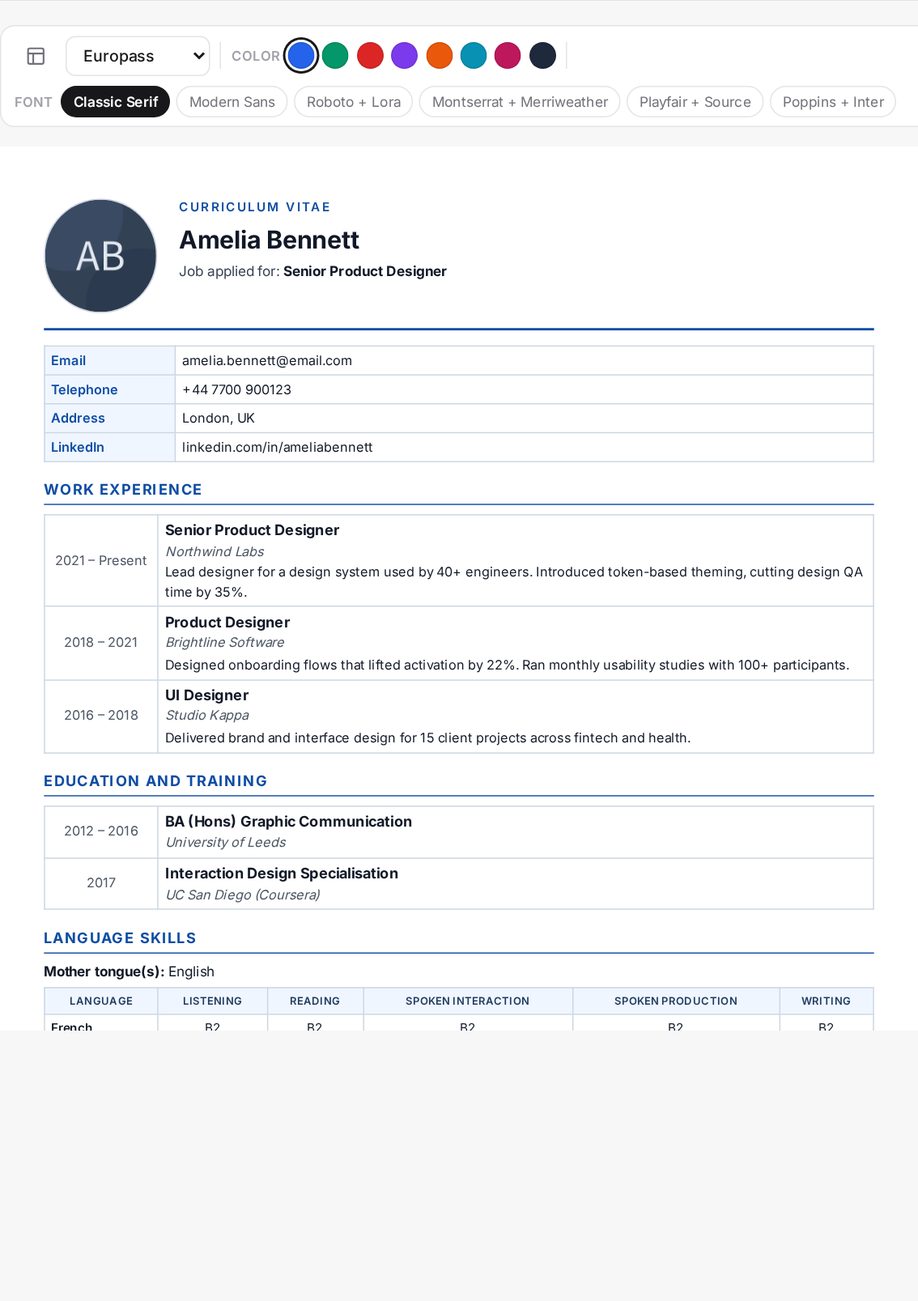
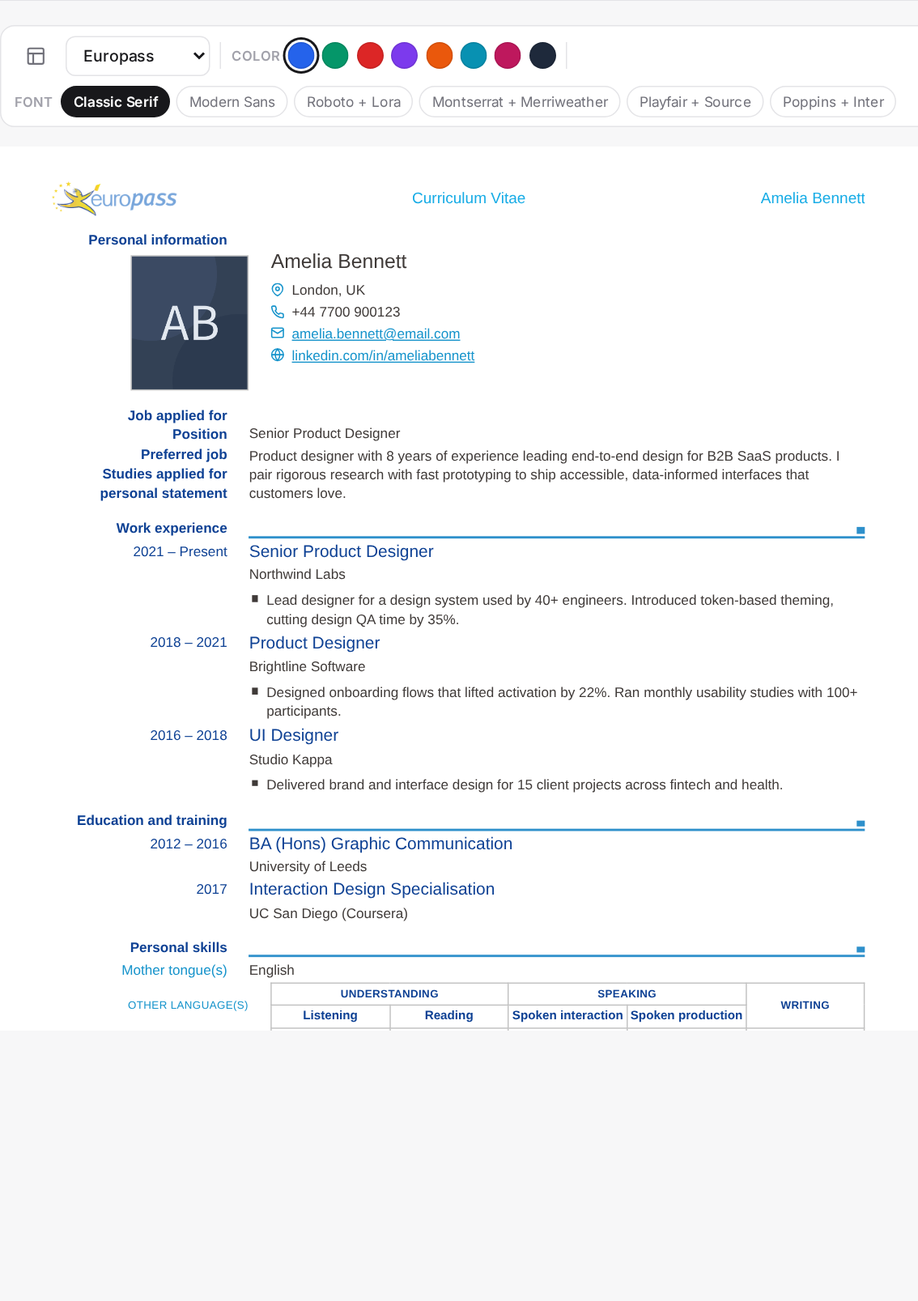
europass: rebuild template as a faithful reproduction of the official European Commission DOCX
- Fetched the official Europass CV templates (EEAS standard_cv.docx / Europass CV 0424)
  and extracted the real structure, styles and tokens from the OOXML
- Official styling: Arial, navy #0E4194 caps headings, #1593CB labels, #3F3A38 body,
  #2E90CB heading rules with end square, #C0C0C0 grid borders, right-aligned 50mm label gutter
- Official structure: Europass logo header (embedded optimized official logo),
  PERSONAL INFORMATION with photo in the gutter + contact pictograms,
  JOB APPLIED FOR/POSITION/PREFERRED JOB/STUDIES APPLIED FOR/personal statement stack,
  WORK EXPERIENCE and EDUCATION AND TRAINING entries with dates in the gutter and
  square-bulleted activities, PERSONAL SKILLS with mother tongue(s), the real CEFR
  self-assessment grid (UNDERSTANDING/SPEAKING/WRITING over 5 skill columns) with
  levels legend, and the (c) European Union footer
- Updated the gallery wireframe thumbnail and README docs; regenerated screenshot
- Verified against the official render (LibreOffice) + VLM checks; CI validator passes

diff --git a/index.html b/index.html
@@ -328,28 +328,57 @@ html.dark .cv-preview{box-shadow:0 1px 3px rgba(0,0,0,0.4),0 8px 32px rgba(0,0,0
 .cv-preview.cv-corporate .cv-section h2{background:#1a3a5c;color:#fff;padding:1mm 2mm;font-size:8.5pt;}
 /* ── Template: creative ─────────────────────────────────── */
 .cv-preview.cv-creative .cv-name{font-family:var(--cv-font-heading);font-size:22pt;font-weight:800;text-align:center;}
-/* ── Template: europass ─────────────────────────────────── */
-.cv-preview.cv-europass{font-family:'Inter','Segoe UI',sans-serif;font-size:9.5pt;color:#111827;padding:12mm 10mm;}
-.cv-europass .ep-head{display:flex;gap:5mm;align-items:flex-start;border-bottom:2.5px solid #0e4da4;padding-bottom:3.5mm;margin-bottom:3.5mm;}
-.cv-europass .ep-head-main{flex:1;min-width:0;}
-.cv-europass .ep-doc-title{font-size:8pt;font-weight:600;text-transform:uppercase;letter-spacing:0.14em;color:#0e4da4;margin-bottom:1mm;}
-.cv-europass .cv-name{font-size:16pt;font-weight:700;letter-spacing:-0.01em;margin-bottom:0.8mm;}
-.cv-europass .ep-job{font-size:9pt;color:#374151;}
-.cv-europass .ep-job strong{color:#111827;}
-.cv-europass .cv-photo{border:1px solid #cbd5e1;}
-.cv-europass .ep-grid{width:100%;border-collapse:collapse;margin-bottom:4mm;font-size:8.5pt;}
-.cv-europass .ep-grid td{padding:1mm 1.5mm;border:1px solid #cbd5e1;vertical-align:top;}
-.cv-europass .ep-grid td:first-child{width:30mm;background:#eff6ff;font-weight:600;color:#0e4da4;}
-.cv-europass .cv-section h2{font-family:'Inter',sans-serif;color:#0e4da4;border-bottom:1.5px solid #0e4da4;font-size:9.5pt;letter-spacing:0.08em;margin-bottom:2mm;}
-.cv-europass .ep-table{width:100%;border-collapse:collapse;font-size:8pt;margin-bottom:1mm;}
-.cv-europass .ep-table th{border:1px solid #cbd5e1;background:#eff6ff;color:#1e3a5f;padding:1.2mm;font-size:6.8pt;font-weight:600;text-transform:uppercase;letter-spacing:0.03em;}
-.cv-europass .ep-table td{border:1px solid #cbd5e1;padding:1.2mm 1.5mm;text-align:center;}
-.cv-europass .ep-table td.ep-lang{text-align:left;font-weight:600;}
-.cv-europass .ep-entry-title{font-weight:700;font-size:9.5pt;}
-.cv-europass .ep-entry-sub{color:#4b5563;font-size:8.5pt;font-style:italic;}
-.cv-europass .ep-entry-body{font-size:8.5pt;margin-top:0.5mm;}
-.cv-europass .ep-dates{white-space:nowrap;color:#4b5563;font-size:8.5pt;}
-.cv-europass .ep-mother{font-size:9pt;margin-bottom:1mm;}
+/* ── Template: europass (faithful reproduction of the official European Commission template) ── */
+.cv-preview.cv-europass{font-family:Arial,Helvetica,sans-serif;font-size:9pt;color:#3f3a38;padding:8mm 12mm 5mm;line-height:1.35;}
+/* page header: logo left · "Curriculum Vitae" centre · candidate name right (ECVHeaderFirstPage #17ACE6) */
+.cv-europass .ep-header{display:flex;align-items:center;gap:4mm;margin-bottom:3.2mm;}
+.cv-europass .ep-logo{height:8mm;width:auto;flex-shrink:0;display:block;}
+.cv-europass .ep-hdr-mid{flex:1;text-align:center;color:#17ace6;font-size:10pt;}
+.cv-europass .ep-hdr-name{color:#17ace6;font-size:10pt;flex-shrink:0;max-width:62mm;overflow:hidden;text-overflow:ellipsis;white-space:nowrap;}
+/* section headings: navy caps, right-aligned in the 50mm label gutter, blue rule with end square (ECVLeftHeading + ECVHeadingLine) */
+.cv-europass .ep-sec{display:flex;align-items:flex-end;margin-top:3.6mm;}
+.cv-europass .ep-sec-first{margin-top:0;}
+.cv-europass .ep-sec-label{width:45mm;text-align:right;padding-right:5mm;color:#0e4194;font-weight:700;font-size:9pt;line-height:1.4;flex-shrink:0;}
+.cv-europass .ep-sec-label .ep-nocaps{text-transform:none;}
+.cv-europass .ep-rule{flex:1;border-bottom:2px solid #2e90cb;position:relative;min-width:8mm;height:1em;}
+.cv-europass .ep-rule::after{content:'';position:absolute;right:0;bottom:2px;width:2mm;height:1.5mm;background:#2e90cb;}
+/* field rows: blue right-aligned label in the gutter (ECVHeadingContactDetails #1593CB) + content */
+.cv-europass .ep-row{display:flex;margin-top:0.7mm;}
+.cv-europass .ep-k{width:45mm;text-align:right;padding-right:5mm;color:#1593cb;flex-shrink:0;}
+.cv-europass .ep-k-navy{color:#0e4194;}
+.cv-europass .ep-v{flex:1;min-width:0;}
+/* entry typography (right column) */
+.cv-europass .ep-occ{color:#0e4194;font-size:11pt;line-height:1.3;}
+.cv-europass .ep-org{margin-top:0.4mm;}
+.cv-europass ul.ep-ul{margin:0.9mm 0 0;padding:0;list-style:none;}
+.cv-europass ul.ep-ul li{position:relative;padding-left:4mm;margin-bottom:0.5mm;}
+.cv-europass ul.ep-ul li::before{content:'';position:absolute;left:0.6mm;top:1mm;width:1.5mm;height:1.5mm;background:#3f3a38;}
+/* personal information: photo in the left gutter under the section label, name + contacts on the right */
+.cv-europass .ep-pi{display:flex;}
+.cv-europass .ep-gutter{width:50mm;flex-shrink:0;display:flex;flex-direction:column;align-items:flex-end;}
+.cv-europass .ep-photo{width:27mm;height:31mm;object-fit:cover;border:0.5pt solid #c0c0c0;margin:1.2mm 5mm 0 0;display:block;}
+.cv-europass .ep-pi-main{flex:1;min-width:0;}
+.cv-europass .ep-name{font-size:13pt;line-height:1.25;}
+.cv-europass .ep-contact{margin-top:1.4mm;display:flex;flex-direction:column;gap:0.7mm;}
+.cv-europass .ep-ct{display:flex;align-items:flex-start;gap:1.6mm;}
+.cv-europass .ep-ct svg{width:3.2mm;height:3.2mm;flex-shrink:0;margin-top:0.4mm;}
+.cv-europass .ep-ct a{color:#1593cb;}
+/* job applied for value block, vertically centred against the label stack as in the official */
+.cv-europass .ep-jaf{flex:1;min-width:0;display:flex;flex-direction:column;justify-content:center;min-height:11mm;}
+.cv-europass .ep-ps{margin-top:1mm;}
+/* CEFR self-assessment grid: borderless 50mm language column, bordered level columns, #ECECEC certificate rows */
+.cv-europass table.ep-lang{width:100%;border-collapse:collapse;font-size:8pt;table-layout:fixed;margin-top:0.7mm;}
+.cv-europass table.ep-lang th{border:0.5pt solid #c0c0c0;padding:0.7mm 0.5mm;color:#0e4194;font-weight:700;font-size:7pt;text-transform:uppercase;text-align:center;letter-spacing:0.03em;}
+.cv-europass table.ep-lang .ep-sub{font-size:8pt;text-transform:none;letter-spacing:0;}
+.cv-europass table.ep-lang td{border:0.5pt solid #c0c0c0;padding:0.8mm 0.5mm;text-align:center;font-weight:700;}
+.cv-europass table.ep-lang .ep-col0{border:none;width:50mm;text-align:right;padding-right:5mm;color:#1593cb;font-weight:400;}
+.cv-europass table.ep-lang td.ep-col0{color:#3f3a38;}
+.cv-europass table.ep-lang .ep-mt{border:none;font-weight:400;text-align:left;padding-left:1mm;}
+.cv-europass .ep-legend{font-size:7pt;color:#0e4194;margin-top:0.8mm;}
+.cv-europass .ep-legend a{color:#0e4194;text-decoration:underline;}
+/* official footer attribution */
+.cv-europass .ep-footer{margin-top:4.5mm;font-size:7.5pt;color:#1593cb;}
+.cv-europass .ep-footer a{color:#1593cb;}
 /* ── Template: nordic ───────────────────────────────────── */
 .cv-preview.cv-nordic{padding:16mm 14mm;}
 .cv-nordic .cv-head{display:flex;justify-content:space-between;align-items:flex-end;gap:6mm;border-bottom:1.5px solid var(--cv-color);padding-bottom:4mm;margin-bottom:6mm;}
@@ -878,7 +907,7 @@ const THUMB_WIRES={
   swiss:'<div class="r acc" style="height:4px;margin-bottom:4px"></div><div class="r dark" style="width:85%"></div><div class="r" style="width:40%;margin-bottom:4px"></div><div class="cols"><div class="c"><div class="r" style="width:60%"></div><div class="r"></div><div class="r"></div></div><div class="c"><div class="r"></div><div class="r"></div><div class="r"></div><div class="r"></div></div></div>',
   executive:'<div class="r dark" style="width:65%;margin:0 auto"></div><div class="r" style="width:45%;margin:0 auto 3px;border-bottom:2px solid #a8a29e"></div><div class="r"></div><div class="r"></div><div class="r"></div><div class="r"></div><div class="r"></div>',
   academic:'<div class="r dark" style="width:70%;margin:0 auto"></div><div class="r" style="width:50%;margin:0 auto 3px"></div><div class="r"></div><div class="r"></div><div class="r"></div><div class="r"></div><div class="r"></div><div class="r"></div>',
-  europass:'<div class="cols" style="flex-direction:row;align-items:flex-start"><div class="dot" style="width:12px;height:12px"></div><div class="c" style="flex:1"><div class="r acc" style="width:80%"></div><div class="r" style="width:60%"></div></div></div><div class="r acc" style="margin:3px 0"></div><div class="r"></div><div class="r"></div><div class="cols"><div class="c" style="flex:2"><div class="r"></div></div><div class="c" style="flex:3"><div class="r"></div><div class="r"></div></div></div>',
+  europass:'<div class="cols" style="align-items:center"><div class="r acc" style="width:14px;margin:0"></div><div class="r" style="flex:1;margin:0 0 2px"></div><div class="r acc" style="width:16px;margin:0"></div></div><div class="cols" style="align-items:flex-end"><div class="c" style="flex:2;align-items:flex-end"><div class="r dark" style="width:85%"></div></div><div class="c" style="flex:3"><div class="r acc" style="height:2px"></div></div></div><div class="cols"><div class="c" style="flex:2;align-items:flex-end"><div class="r" style="width:70%"></div></div><div class="c" style="flex:3"><div class="r"></div><div class="r" style="width:85%"></div></div></div><div class="cols" style="align-items:flex-end"><div class="c" style="flex:2;align-items:flex-end"><div class="r dark" style="width:85%"></div></div><div class="c" style="flex:3"><div class="r acc" style="height:2px"></div></div></div><div class="cols"><div class="c" style="flex:2;align-items:flex-end"><div class="r" style="width:65%"></div></div><div class="c" style="flex:3;display:grid;grid-template-columns:repeat(5,1fr);gap:2px"><div style="border:1px solid #c8c8cd;height:9px"></div><div style="border:1px solid #c8c8cd;height:9px"></div><div style="border:1px solid #c8c8cd;height:9px"></div><div style="border:1px solid #c8c8cd;height:9px"></div><div style="border:1px solid #c8c8cd;height:9px"></div></div></div>',
   compact:'<div class="cols" style="align-items:center"><div class="dot" style="width:11px;height:11px"></div><div class="c"><div class="r dark" style="width:80%"></div><div class="r" style="width:50%"></div></div></div><div class="r acc" style="margin:2px 0"></div><div class="r" style="height:2px"></div><div class="r" style="height:2px"></div><div class="r" style="height:2px"></div><div class="r" style="height:2px"></div><div class="r" style="height:2px"></div><div class="r" style="height:2px"></div><div class="r" style="height:2px"></div><div class="r" style="height:2px"></div><div class="r" style="height:2px"></div>',
   'sidebar-bold':'<div class="cols"><div class="c solid"></div><div class="c"><div class="r"></div><div class="r"></div><div class="r"></div><div class="r"></div></div></div>',
   timeline:'<div class="r dark" style="width:60%;margin:0 auto"></div><div class="r" style="width:40%;margin:0 auto 3px"></div><div class="cols"><div class="c" style="flex:0 0 6px;position:relative"><div style="position:absolute;left:2px;top:3px;bottom:3px;width:1px;background:#d4d4d8"></div></div><div class="c"><div class="r"></div><div class="r"></div><div class="r"></div><div class="r"></div><div class="r"></div><div class="r"></div></div></div>',
@@ -1075,16 +1104,38 @@ function _updatePreviewNow(){
         case'academic':html=`${ph?`<div style="text-align:center;margin-bottom:2mm">${ph}</div>`:''}<div class="cv-name">${esc(name)}</div><div class="cv-contact">${esc(title)}${cs?' · '+esc(cs):''}</div>${orderedContent}`;break;
         case'compact':html=`<div class="cv-head">${ph}<div style="min-width:0"><div class="cv-name">${esc(name)}</div>${title?`<div class="cv-title">${esc(title)}</div>`:''}</div>${contactLines?`<div class="cv-head-contact">${contactLines}</div>`:''}</div>${summary.trim()?`<div class="cv-section"><h2>Profile</h2><p>${esc(summary)}</p></div>`:''}<div class="cv-cols"><div class="cv-col-a">${exp.length?`<div class="cv-section"><h2>Experience</h2>${eH}</div>`:''}</div><div class="cv-col-b">${edu.length?`<div class="cv-section"><h2>Education</h2>${dH}</div>`:''}${skillList.length?`<div class="cv-section"><h2>Skills</h2><p style="font-size:8pt">${esc(skills)}</p></div>`:''}${langLines?`<div class="cv-section"><h2>Languages</h2>${langLines}</div>`:''}</div></div>`;break;
         case'europass':{
-            const nativeLangs=langs.filter(l=>(l.level||'').toLowerCase()==='native');
-            const otherLangs=langs.filter(l=>(l.level||'').toLowerCase()!=='native');
+            /* Faithful reproduction of the official Europass CV issued by the European
+               Commission (structure & styling extracted from the official DOCX template):
+               Arial · logo header · right-aligned labels in a 50mm gutter · navy #0E4194 caps
+               headings with #2E90CB rules · #1593CB field labels · CEFR self-assessment grid ·
+               "© European Union" footer. Section order follows the official document. */
             const epLvl=l=>{const v=(l.level||'').trim();return v?v.toUpperCase():'—';};
-            html=`<div class="ep-head">${ph}<div class="ep-head-main"><div class="ep-doc-title">Curriculum Vitae</div><div class="cv-name">${esc(name)}</div>${title?`<div class="ep-job">Job applied for: <strong>${esc(title)}</strong></div>`:''}</div></div>
-            ${email||phone||location||linkedin?`<table class="ep-grid"><tbody>${email?`<tr><td>Email</td><td>${esc(email)}</td></tr>`:''}${phone?`<tr><td>Telephone</td><td>${esc(phone)}</td></tr>`:''}${location?`<tr><td>Address</td><td>${esc(location)}</td></tr>`:''}${linkedin?`<tr><td>LinkedIn</td><td>${esc(linkedin)}</td></tr>`:''}</tbody></table>`:''}
-            ${exp.length?`<div class="cv-section"><h2>Work experience</h2><table class="ep-table">${exp.map(e=>`<tr><td class="ep-dates" style="width:26mm">${esc(e.dates)}</td><td style="text-align:left"><div class="ep-entry-title">${esc(e.title)}</div>${e.company?`<div class="ep-entry-sub">${esc(e.company)}</div>`:''}${e.description?`<div class="ep-entry-body">${esc(e.description)}</div>`:''}</td></tr>`).join('')}</table></div>`:''}
-            ${edu.length?`<div class="cv-section"><h2>Education and training</h2><table class="ep-table">${edu.map(e=>`<tr><td class="ep-dates" style="width:26mm">${esc(e.year)}</td><td style="text-align:left"><div class="ep-entry-title">${esc(e.degree)}</div>${e.institution?`<div class="ep-entry-sub">${esc(e.institution)}</div>`:''}</td></tr>`).join('')}</table></div>`:''}
-            ${langs.length?`<div class="cv-section"><h2>Language skills</h2>${nativeLangs.length?`<div class="ep-mother"><strong>Mother tongue(s):</strong> ${nativeLangs.map(l=>esc(l.language)).join(', ')}</div>`:''}${otherLangs.length?`<table class="ep-table"><tr><th>Language</th><th>Listening</th><th>Reading</th><th>Spoken interaction</th><th>Spoken production</th><th>Writing</th></tr>${otherLangs.map(l=>`<tr><td class="ep-lang">${esc(l.language)}</td><td>${epLvl(l)}</td><td>${epLvl(l)}</td><td>${epLvl(l)}</td><td>${epLvl(l)}</td><td>${epLvl(l)}</td></tr>`).join('')}</table>`:''}</div>`:''}
-            ${skills.trim()?`<div class="cv-section"><h2>Job-related skills and competences</h2><p>${esc(skills)}</p></div>`:''}
-            ${summary.trim()?`<div class="cv-section"><h2>Additional information</h2><p>${esc(summary)}</p></div>`:''}`;
+            const isNative=l=>['native','mother tongue','nativ'].includes((l.level||'').toLowerCase().trim());
+            const motherTongues=langs.filter(isNative),otherLangs=langs.filter(l=>!isNative(l));
+            const epIcon={
+                pin:'<svg viewBox="0 0 24 24" fill="none" stroke="#1593cb" stroke-width="2.2" stroke-linecap="round" stroke-linejoin="round"><path d="M21 10c0 7-9 12-9 12s-9-5-9-12a9 9 0 0 1 18 0z"/><circle cx="12" cy="10" r="3"/></svg>',
+                phone:'<svg viewBox="0 0 24 24" fill="none" stroke="#1593cb" stroke-width="2.2" stroke-linecap="round" stroke-linejoin="round"><path d="M22 16.92v3a2 2 0 0 1-2.18 2 19.79 19.79 0 0 1-8.63-3.07 19.5 19.5 0 0 1-6-6 19.79 19.79 0 0 1-3.07-8.67A2 2 0 0 1 4.11 2h3a2 2 0 0 1 2 1.72c.13.96.36 1.9.7 2.81a2 2 0 0 1-.45 2.11L8.09 9.91a16 16 0 0 0 6 6l1.27-1.27a2 2 0 0 1 2.11-.45c.91.34 1.85.57 2.81.7A2 2 0 0 1 22 16.92z"/></svg>',
+                mail:'<svg viewBox="0 0 24 24" fill="none" stroke="#1593cb" stroke-width="2.2" stroke-linecap="round" stroke-linejoin="round"><rect x="2" y="4" width="20" height="16" rx="2"/><path d="m22 7-10 6L2 7"/></svg>',
+                web:'<svg viewBox="0 0 24 24" fill="none" stroke="#1593cb" stroke-width="2.2" stroke-linecap="round" stroke-linejoin="round"><circle cx="12" cy="12" r="10"/><path d="M2 12h20"/><path d="M12 2a15.3 15.3 0 0 1 4 10 15.3 15.3 0 0 1-4 10 15.3 15.3 0 0 1-4-10 15.3 15.3 0 0 1 4-10z"/></svg>'};
+            const contacts=[location?{i:'pin',t:esc(location)}:null,phone?{i:'phone',t:esc(phone)}:null,email?{i:'mail',t:`<a href="mailto:${esc(email)}">${esc(email)}</a>`}:null,linkedin?{i:'web',t:`<a href="${esc(linkedin)}" target="_blank" rel="noopener">${esc(linkedin)}</a>`}:null].filter(Boolean);
+            const epSec=(label,rule)=>`<div class="ep-sec"><div class="ep-sec-label">${label}</div>${rule?'<div class="ep-rule"></div>':''}</div>`;
+            const expEntry=e=>{
+                const acts=(e.description||'').split('\n').map(s=>s.trim()).filter(Boolean);
+                return `<div class="ep-row"><div class="ep-k ep-k-navy">${esc(e.dates)}</div><div class="ep-v"><div class="ep-occ">${esc(e.title)}</div>${e.company?`<div class="ep-org">${esc(e.company)}</div>`:''}</div></div>
+                ${acts.length?`<div class="ep-row"><div class="ep-k"></div><div class="ep-v"><ul class="ep-ul">${acts.map(a=>`<li>${esc(a)}</li>`).join('')}</ul></div></div>`:''}`;
+            };
+            const eduEntry=e=>`<div class="ep-row"><div class="ep-k ep-k-navy">${esc(e.year)}</div><div class="ep-v"><div class="ep-occ">${esc(e.degree)}</div>${e.institution?`<div class="ep-org">${esc(e.institution)}</div>`:''}</div></div>`;
[1 lines of base64/hex data omitted]
+            <div class="ep-sec ep-sec-first"><div class="ep-sec-label">Personal information</div></div>
+            <div class="ep-pi"><div class="ep-gutter">${photoData?`<img class="ep-photo" src="${photoData}" alt="Profile photo">`:''}</div><div class="ep-pi-main"><div class="ep-name">${esc(name)}</div>${contacts.length?`<div class="ep-contact">${contacts.map(c=>`<div class="ep-ct">${epIcon[c.i]}<span>${c.t}</span></div>`).join('')}</div>`:''}</div></div>
+            ${title||summary.trim()?`<div class="ep-sec"><div class="ep-sec-label">Job applied for<br>Position<br>Preferred job<br>Studies applied for<br><span class="ep-nocaps">personal statement</span></div><div class="ep-jaf">${title?`<div>${esc(title)}</div>`:''}${summary.trim()?`<div class="ep-ps">${esc(summary)}</div>`:''}</div></div>`:''}
+            ${exp.length?epSec('Work experience',true)+exp.map(expEntry).join(''):''}
+            ${edu.length?epSec('Education and training',true)+edu.map(eduEntry).join(''):''}
+            ${langs.length||skills.trim()?epSec('Personal skills',true)+
+                (motherTongues.length?`<div class="ep-row"><div class="ep-k">Mother tongue(s)</div><div class="ep-v">${motherTongues.map(l=>esc(l.language)).join(', ')}</div></div>`:'')+
+                (otherLangs.length?`<table class="ep-lang"><tr><th class="ep-col0" rowspan="2">Other language(s)</th><th colspan="2">Understanding</th><th colspan="2">Speaking</th><th rowspan="2">Writing</th></tr><tr><th class="ep-sub">Listening</th><th class="ep-sub">Reading</th><th class="ep-sub">Spoken interaction</th><th class="ep-sub">Spoken production</th></tr>${otherLangs.map(l=>`<tr><td class="ep-col0">${esc(l.language)}</td><td>${epLvl(l)}</td><td>${epLvl(l)}</td><td>${epLvl(l)}</td><td>${epLvl(l)}</td><td>${epLvl(l)}</td></tr>`).join('')}</table><div class="ep-legend">Levels: A1/A2: Basic user - B1/B2: Independent user - C1/C2: Proficient user. <a href="https://europa.eu/europass/en/common-european-framework-reference-languages" target="_blank" rel="noopener">Common European Framework of Reference for Languages</a></div>`:'')+
+                (skills.trim()?`<div class="ep-row"><div class="ep-k">Job-related skills</div><div class="ep-v">${esc(skills)}</div></div>`:''):''}
+            <div class="ep-footer">© European Union, 2002-2015 | <a href="https://europass.cedefop.europa.eu" target="_blank" rel="noopener">europass.cedefop.europa.eu</a></div>`;
             break;}
         default:html=`<div class="cv-name">${esc(name)}</div><p>${esc(title)} | ${esc(cs)}</p>${orderedContent}`;
     }

diff --git a/README.md b/README.md
@@ -29,7 +29,7 @@
 | Area | Change |
 |---|---|
 | **UI** | Complete minimalist redesign — neutral palette, hairline borders, stroke icons, clean type scale, calmer animations. The app chrome gets out of the way of your content. |
-| **Europass CV** | New official-style Europass template with the CEFR self-assessment grid (Listening / Reading / Spoken interaction / Spoken production / Writing), mother-tongue handling, dated work & education tables and the classic "Job applied for" header. |
+| **Europass CV** | New official-style Europass template — a faithful reproduction of the European Commission's official DOCX (logo header, right-aligned label gutter, blue heading rules, CEFR self-assessment grid, © European Union footer). |
 | **4 more templates** | **Nordic** (Scandinavian minimalism), **Swiss** (International Typographic Style), **Academic** (conservative serif) and **Compact** (dense one-pager) — 18 templates in total. |
 | **Profile photos** | Photo shape (circle / rounded / square), photo size (S / M / L), one-tap remove, and a cleaner crop-and-rotate editor. Photos now render in *every* template. |
 | **Languages** | New Languages section with Native / A1–C2 levels. Feeds the Europass CEFR grid and renders as a styled list in other templates. Also picked up from LinkedIn imports. |
@@ -50,7 +50,7 @@ Every keystroke updates the A4 preview (debounced 200 ms). Sections are collapsi
 
 ### Profile photos
 
-Upload a picture, crop and rotate it in-browser (Cropper.js), then choose its **shape** — circle, rounded or square — and its **size** (S / M / L). The photo flows into all 18 templates: square with a hairline border on Europass, a framed circle on Modern, a colour-backed circle on Sidebar Bold. Shape and size controls update every template instantly, and the settings travel with saves, share links and version history.
+Upload a picture, crop and rotate it in-browser (Cropper.js), then choose its **shape** — circle, rounded or square — and its **size** (S / M / L). The photo flows into all 18 templates: an ID-style photo in the label gutter on Europass, a framed circle on Modern, a colour-backed circle on Sidebar Bold. Shape and size controls update every template instantly, and the settings travel with saves, share links and version history.
 
 ### ATS analyser
 
@@ -115,16 +115,19 @@ All 18 templates rendered with the same sample data:
 
 ### About the Europass template
 
-The [Europass CV](https://europa.eu/europass/en) is the European Union's standard CV format. CV Genie's implementation:
+The [Europass CV](https://europa.eu/europass/en) is the European Union's standard CV format. CV Genie's Europass template is a faithful reproduction of the [official European Commission template](https://www.eeas.europa.eu/sites/default/files/standard_cv.docx) — structure, colours and typography were extracted directly from the official DOCX:
 
-- Header with photo, name and **Job applied for** (uses your job title field).
-- Personal information grid (email, telephone, address, LinkedIn).
-- **Work experience** and **Education and training** as dated tables, matching the official layout.
-- **Language skills** with mother tongue(s) and the CEFR self-assessment grid:
+- **Header**: the official Europass logo, "Curriculum Vitae" and the candidate name in light blue, exactly like the original first-page header.
+- **Personal information**: the name in the content column with contact lines (address, telephone, e-mail, website) and small blue pictograms; the profile photo sits in the label gutter, as in the official layout.
+- **Job applied for; position; preferred job; studies applied for; personal statement** — the official stacked label block, filled with your job title and professional summary.
+- **Work experience / Education and training** entries with dates right-aligned in the label gutter, position and qualification headings in navy, employers/institutions and square-bulleted activities in the content column.
+- **Personal skills** with *Mother tongue(s)*, the official CEFR self-assessment grid (Understanding → Listening / Reading, Speaking → Spoken interaction / Spoken production, Writing) and its levels legend, plus *Job-related skills*.
+- Official styling tokens: Arial, navy `#0E4194` caps headings with the `#2E90CB` rules, `#1593CB` field labels, `#C0C0C0` grid borders, and the "© European Union" footer.
 
-| Language | Listening | Reading | Spoken interaction | Spoken production | Writing |
-|---|---|---|---|---|---|
-| French | B2 | B2 | B2 | B2 | B2 |
+| Understanding | | Speaking | | Writing |
+|---|---|---|---|---|
+| Listening | Reading | Spoken interaction | Spoken production | |
+| B2 | B2 | B2 | B2 | B2 |
 
 Add languages in the **Languages** section of the Edit tab, choosing *Native* for your mother tongue(s) or a CEFR level (A1–C2) for others. The grid fills each skill column with the chosen level — edit the source if you need per-skill levels.
 
